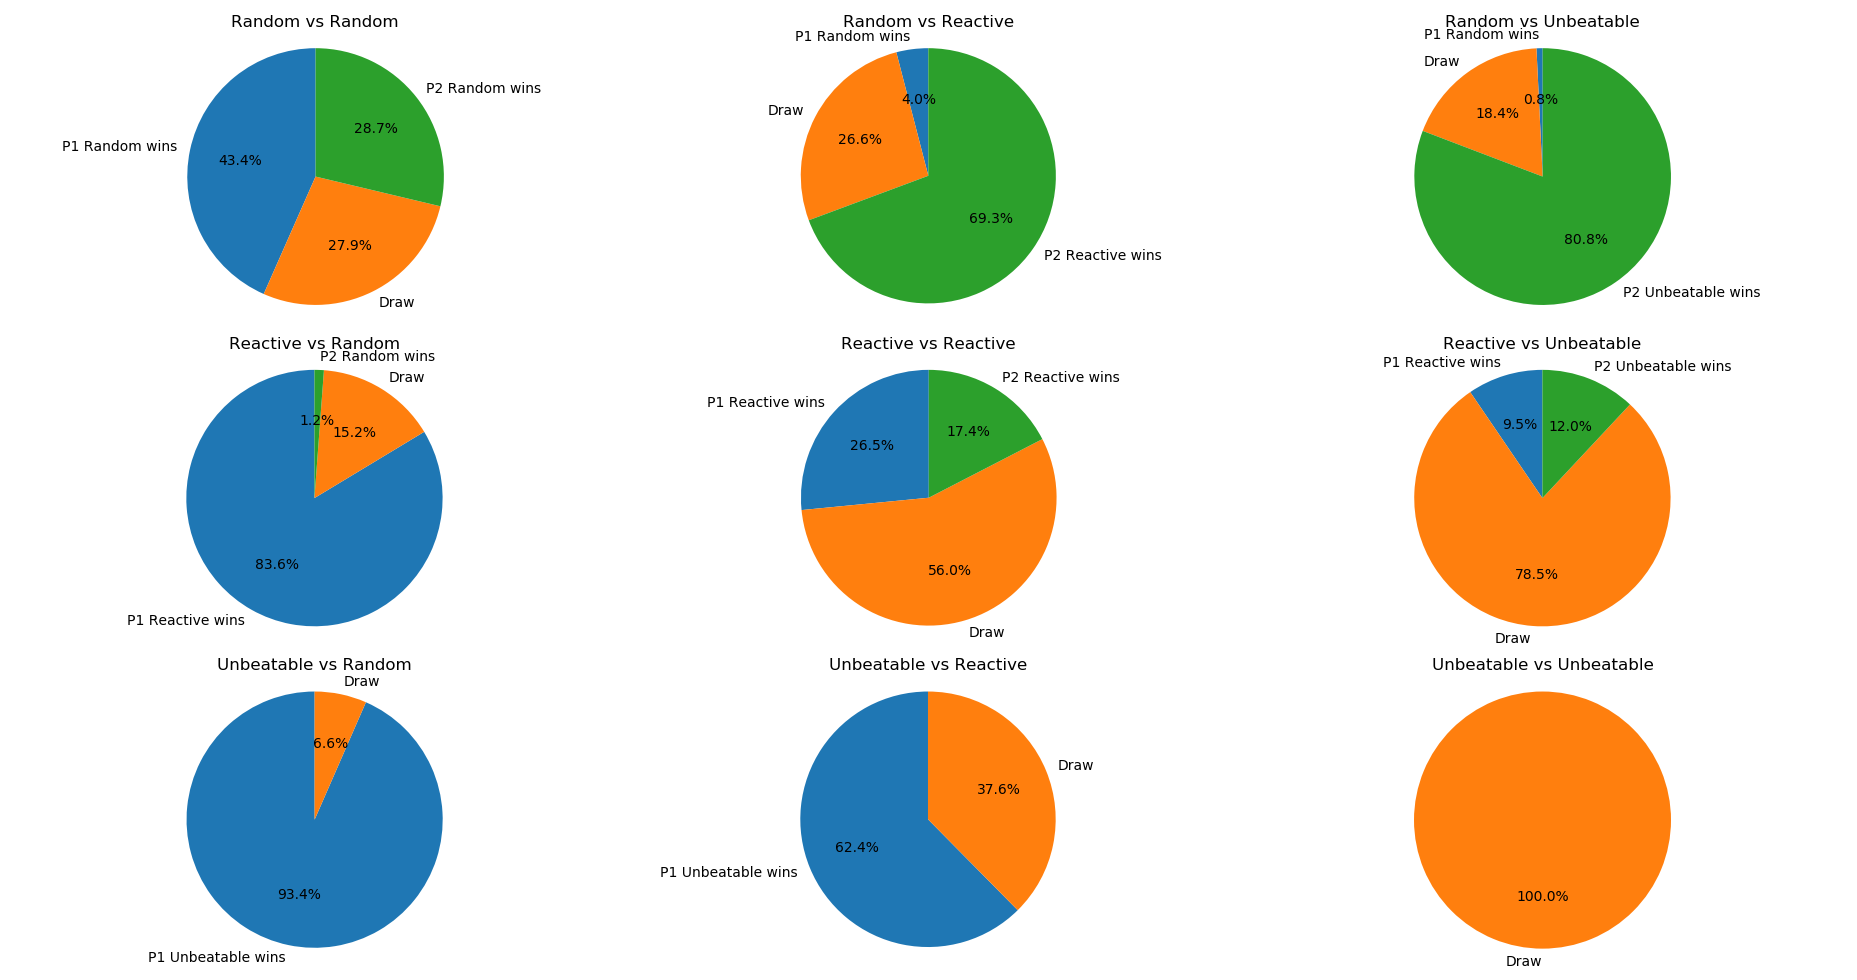
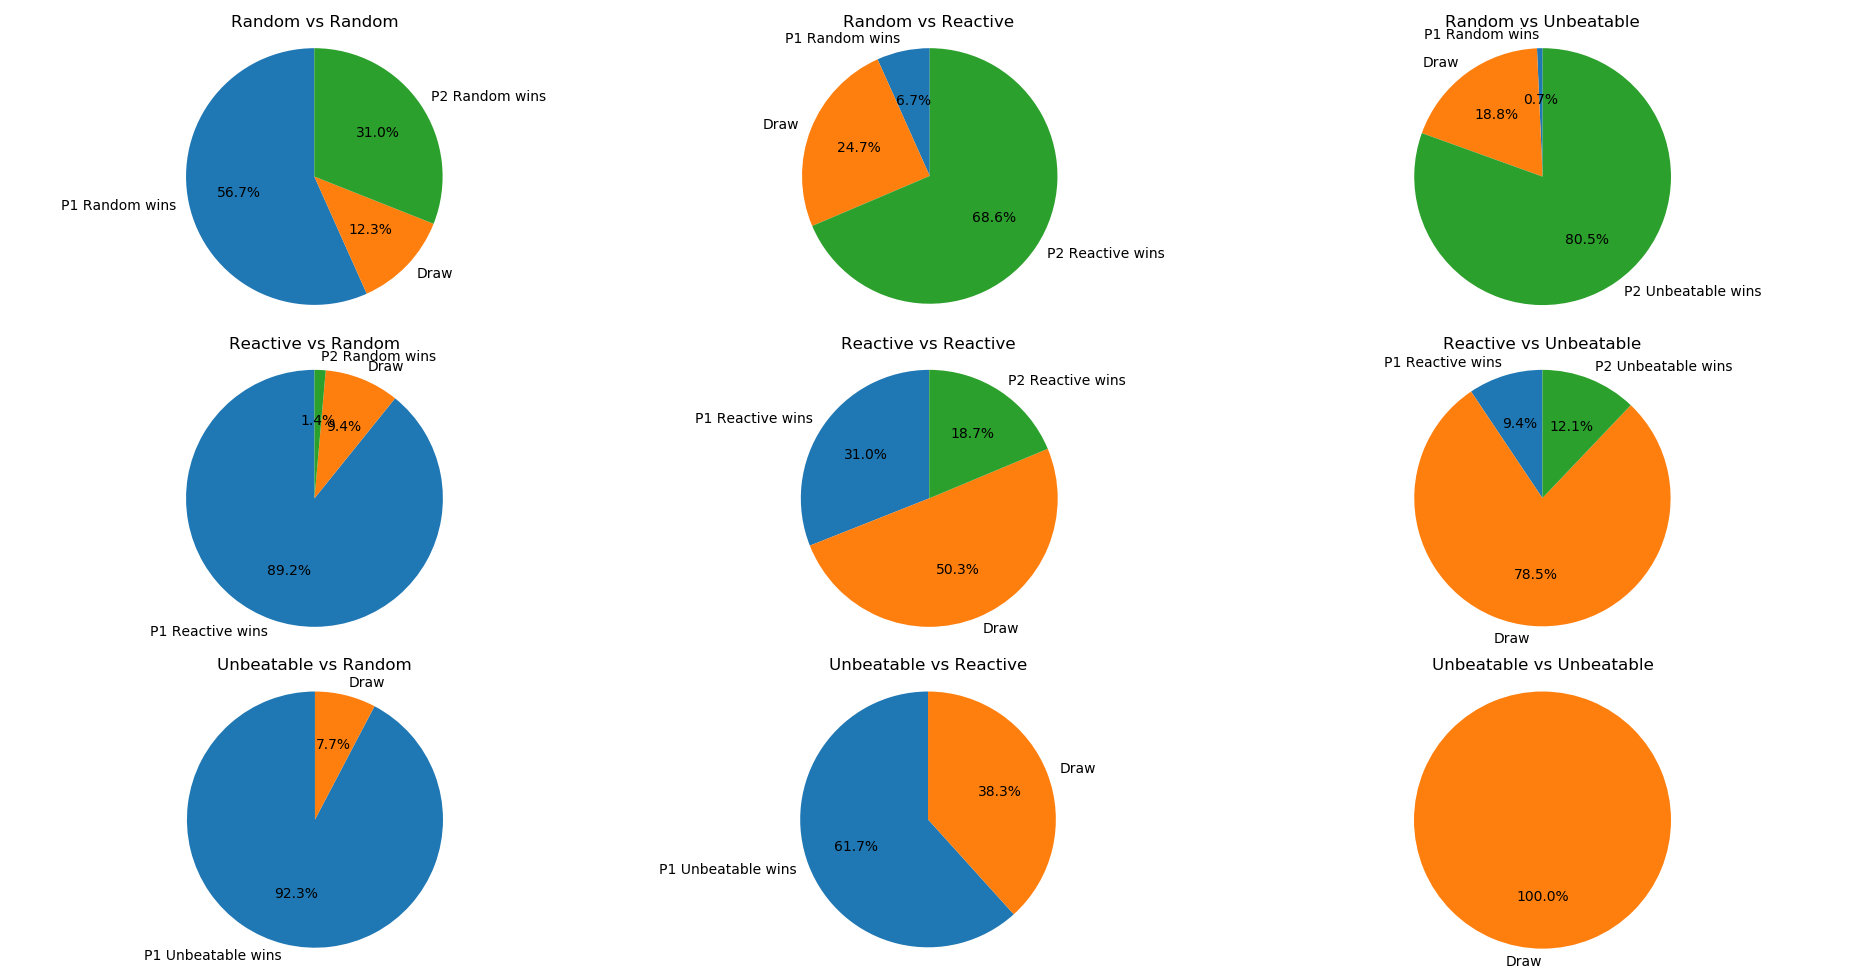
react fix

diff --git a/tictactoe/playerReact.py b/tictactoe/playerReact.py
@@ -11,17 +11,23 @@ def incrementDictPos(pos, dict):
         dict[key] = 1
 
 
-def checkCellMode(winNum, lastCount, isMine, freeLastPos, freePrePos, mode):
+def checkCellMode(winNum, lastCount, preLastCount, isMine, freeLastPos, freePrePos, mode):
     """Checks if is current cell fits into mode"""
     if mode == "other-1":
         if lastCount == winNum - 1 and not isMine:
             return freeLastPos if freeLastPos else freePrePos
+        if lastCount + preLastCount + 1 >= winNum and not isMine:
+            # print("mezi", freePrePos, freeLastPos)
+            return freePrePos
     elif mode == "other-2":
         if lastCount == winNum - 2 and not isMine:
             return freeLastPos if freeLastPos and freePrePos else None
     elif mode == "own-1":
         if lastCount == winNum - 1 and isMine:
             return freeLastPos if freeLastPos else freePrePos
+        if lastCount + preLastCount + 1 >= winNum and isMine:
+            # print("mezi")
+            return freePrePos
     elif mode == "own-2":
         if lastCount == winNum - 2 and isMine:
             return freeLastPos if freeLastPos and freePrePos else None
@@ -74,6 +80,8 @@ class PlayerReact(PlayerRand):
         for line, pos, direction in playField.lines(True):
             lastPlayer = 0
             lastCount = 0
+            preLastCount = 0
+            preLastPlayer = -1
             freePre = False
             freeLast = False
             for i, cell in enumerate(line):
@@ -83,23 +91,34 @@ class PlayerReact(PlayerRand):
                         if freeLast:
                             freePre = True
                     else:
+                        if preLastPlayer != cell:
+                            preLastCount = 0
                         if lastPlayer != 0:
                             freePre = False
+                            preLastCount = 0
+                            preLastPlayer = lastPlayer
                         lastPlayer = cell
                         lastCount = 1
 
                 freeLast = cell == 0
 
                 freeLastPos = pos + (direction * i) if freeLast else None
-                freePrePos = pos + (direction * (i - playField.winNum + 1)) if freePre else None
+                freePrePos = pos + (direction * (i - lastCount)) if freePre else None
+
+                # if preLastCount:
+                #     print(pos, direction, pos + (direction * i), preLastCount)
 
                 # print(playField.winNum, lastCount, lastPlayer==myID, freeLastPos, freePrePos, mode)
-                outCell = checkCellMode(playField.winNum, lastCount, lastPlayer==myID,
-                                        freeLastPos, freePrePos, mode)
+                outCell = checkCellMode(playField.winNum, lastCount, preLastCount,
+                                        lastPlayer==myID, freeLastPos, freePrePos, mode)
                 if outCell is not None:
                     yield outCell
 
                 if cell == 0:
+                    preLastCount = 0 if preLastPlayer == 0 else lastCount
+                    preLastPlayer = lastPlayer
+
                     lastPlayer = 0
                     lastCount = 0
                     freePre = True
+

diff --git a/tictactoe/main.py b/tictactoe/main.py
@@ -2,6 +2,7 @@ from playField import *
 from visualiser import *
 from playerRand import PlayerRand
 from playerReact import PlayerReact
+from playerUnbeat import PlayerUnbeat
 from playerNeural import PlayerNeural
 from time import sleep
 import sys
@@ -18,8 +19,9 @@ visualiser.show()
 visualiser.setNextPlayer(curPlayer)
 
 aiPlayers = {}
-# aiPlayers[1] = PlayerRand(playField, 1)
-aiPlayers[2] = PlayerReact(playField, 2)
+# aiPlayers[1] = PlayerReact(playField, 1)
+# aiPlayers[1] = PlayerUnbeat(playField, 1)
+aiPlayers[2] = PlayerUnbeat(playField, 2)
 # aiPlayers[2] = PlayerNeural()
 # aiPlayers[2].setStrategy(np.random.random(10*10+10*9) - 0.5)
 

diff --git a/tictactoe/playerUnbeat.py b/tictactoe/playerUnbeat.py
@@ -17,7 +17,8 @@ class PlayerUnbeat(PlayerReact):
 
             # try other moves
             move = self.move3x3()
-            return move
+            if move is not None:
+                return move
 
         return PlayerRand(self.playField, self.myID).nextMove()
 
